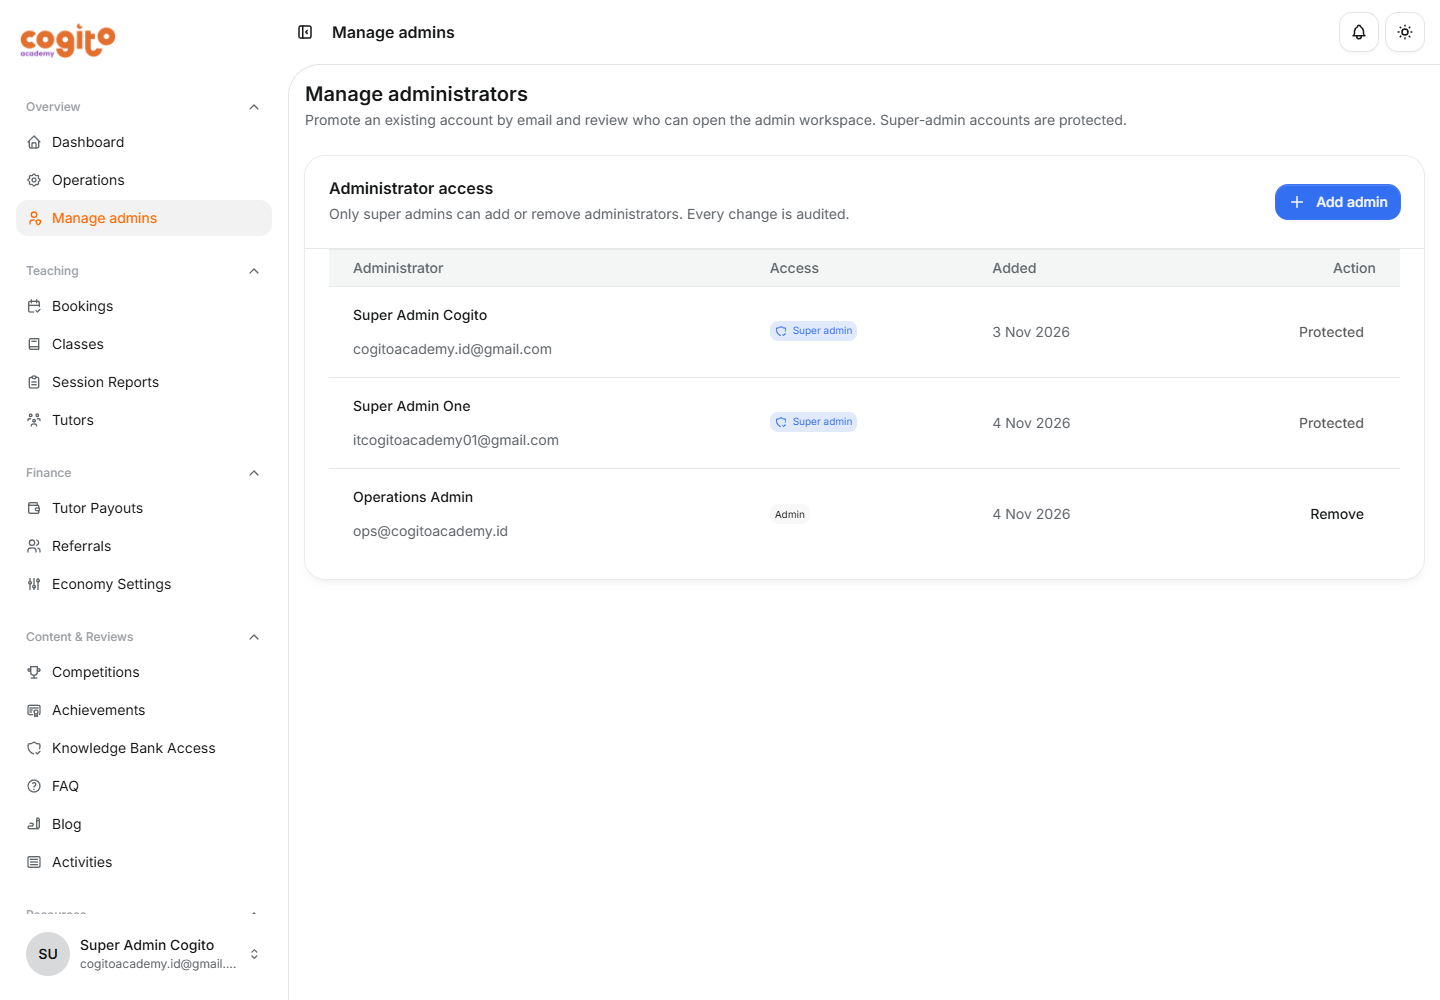
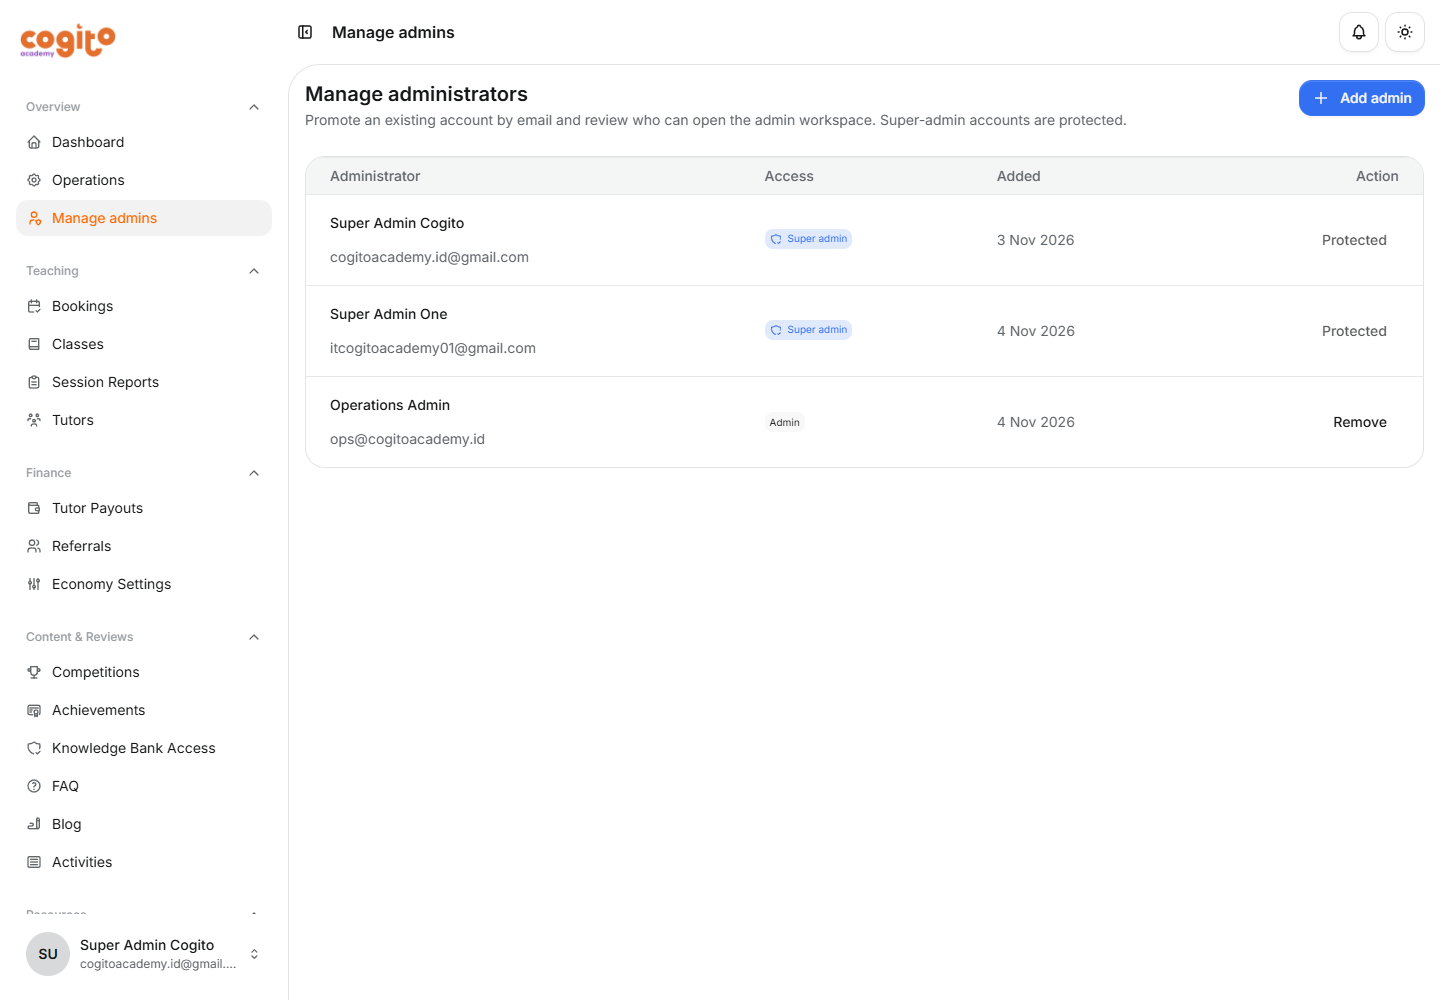
fix(admin): simplify roster layout and table framing
Drop the duplicate card header, move Add admin into the page heading, and let the roster table sit in a single bordered section like other admin pages.

diff --git a/apps/web/src/components/admin/admin-admins-page.tsx b/apps/web/src/components/admin/admin-admins-page.tsx
@@ -7,14 +7,6 @@ import { IconPlus, IconShieldCheck, IconUserShield } from "@tabler/icons-react";
 import { Badge } from "@cogito-app/ui/components/selia/badge";
 import { Button } from "@cogito-app/ui/components/selia/button";
 import {
-  Card,
-  CardBody,
-  CardDescription,
-  CardHeader,
-  CardHeaderAction,
-  CardTitle,
-} from "@cogito-app/ui/components/selia/card";
-import {
   Dialog,
   DialogBody,
   DialogDescription,
@@ -129,143 +121,129 @@ export function AdminAdminsPage() {
 
   return (
     <Stack direction="column" spacing="lg">
-      <div>
-        <Heading level={1} size="md">
-          Manage administrators
-        </Heading>
-        <Text className="max-w-full text-muted">
-          Promote an existing account by email and review who can open the admin
-          workspace. Super-admin accounts are protected.
-        </Text>
+      <div className="flex flex-wrap items-start justify-between gap-3">
+        <div className="min-w-0">
+          <Heading level={1} size="md">
+            Manage administrators
+          </Heading>
+          <Text className="max-w-full text-muted">
+            Promote an existing account by email and review who can open the
+            admin workspace. Super-admin accounts are protected.
+          </Text>
+        </div>
+        <Button
+          size="sm"
+          className="shrink-0"
+          onClick={() => {
+            setAddOpen(true);
+            setFormError(null);
+          }}
+        >
+          <IconPlus /> Add admin
+        </Button>
       </div>
 
-      <Card>
-        <CardHeader>
-          <CardTitle>Administrator access</CardTitle>
-          <CardDescription>
-            Only super admins can add or remove administrators. Every change is
-            audited.
-          </CardDescription>
-          <CardHeaderAction>
+      {adminsQuery.isPending ? (
+        <Loader />
+      ) : adminsQuery.isError ? (
+        <EmptyState
+          icon={<IconUserShield />}
+          tone="danger"
+          title="Administrators could not be loaded"
+          description={getUserFacingError(adminsQuery.error)}
+          action={
             <Button
-              size="sm"
-              onClick={() => {
-                setAddOpen(true);
-                setFormError(null);
-              }}
+              variant="outline"
+              onClick={() => void adminsQuery.refetch()}
             >
-              <IconPlus /> Add admin
+              Try again
             </Button>
-          </CardHeaderAction>
-        </CardHeader>
-        <CardBody className="p-6">
-          {adminsQuery.isPending ? (
-            <div className="p-2">
-              <Loader />
-            </div>
-          ) : adminsQuery.isError ? (
-            <EmptyState
-              icon={<IconUserShield />}
-              tone="danger"
-              title="Administrators could not be loaded"
-              description={getUserFacingError(adminsQuery.error)}
-              action={
-                <Button
-                  variant="outline"
-                  onClick={() => void adminsQuery.refetch()}
-                >
-                  Try again
-                </Button>
-              }
-              className="p-10"
-            />
-          ) : admins.length === 0 ? (
-            <EmptyState
-              icon={<IconUserShield />}
-              title="No administrators yet"
-              description="Add an existing account by email to grant admin access."
-              className="p-10"
-            />
-          ) : (
-            <TableContainer className="mx-0! w-full!">
-              <Table>
-                <TableHeader>
-                  <TableRow>
-                    <TableHead>Administrator</TableHead>
-                    <TableHead className="hidden sm:table-cell">
-                      Access
-                    </TableHead>
-                    <TableHead className="hidden sm:table-cell">
-                      Added
-                    </TableHead>
-                    <TableHead className="hidden text-right sm:table-cell">
-                      Action
-                    </TableHead>
-                  </TableRow>
-                </TableHeader>
-                <TableBody>
-                  {admins.map((admin) => (
-                    <TableRow key={admin.id}>
-                      <TableCell>
-                        <Stack direction="column" spacing="sm">
-                          <Text className="font-medium">{admin.name}</Text>
-                          <Text className="text-muted">{admin.email}</Text>
-                          <span className="sm:hidden">
-                            {admin.isSuperAdmin ? (
-                              <Badge variant="primary" size="sm">
-                                <IconShieldCheck /> Super admin
-                              </Badge>
-                            ) : (
-                              <Badge variant="secondary" size="sm">
-                                Admin
-                              </Badge>
-                            )}
-                          </span>
-                          <Button
-                            variant="plain"
-                            size="sm"
-                            className="w-fit sm:hidden"
-                            disabled={admin.isSuperAdmin}
-                            onClick={() => setRemoveTarget(admin)}
-                          >
-                            {admin.isSuperAdmin ? "Protected" : "Remove"}
-                          </Button>
-                        </Stack>
-                      </TableCell>
-                      <TableCell className="hidden sm:table-cell">
-                        {admin.isSuperAdmin ? (
-                          <Badge variant="primary" size="sm">
-                            <IconShieldCheck /> Super admin
-                          </Badge>
-                        ) : (
-                          <Badge variant="secondary" size="sm">
-                            Admin
-                          </Badge>
-                        )}
-                      </TableCell>
-                      <TableCell className="hidden sm:table-cell">
-                        <Text className="text-muted">
-                          {formatJoined(admin.createdAt)}
-                        </Text>
-                      </TableCell>
-                      <TableCell className="hidden text-right sm:table-cell">
+          }
+          className="rounded-xl border border-border p-10"
+        />
+      ) : admins.length === 0 ? (
+        <EmptyState
+          icon={<IconUserShield />}
+          title="No administrators yet"
+          description="Add an existing account by email to grant admin access."
+          className="rounded-xl border border-border p-10"
+        />
+      ) : (
+        <div className="overflow-hidden rounded-xl border border-border">
+          <TableContainer>
+            <Table>
+              <TableHeader>
+                <TableRow>
+                  <TableHead>Administrator</TableHead>
+                  <TableHead className="hidden sm:table-cell">Access</TableHead>
+                  <TableHead className="hidden sm:table-cell">Added</TableHead>
+                  <TableHead className="hidden text-right sm:table-cell">
+                    Action
+                  </TableHead>
+                </TableRow>
+              </TableHeader>
+              <TableBody>
+                {admins.map((admin) => (
+                  <TableRow key={admin.id}>
+                    <TableCell>
+                      <Stack direction="column" spacing="sm">
+                        <Text className="font-medium">{admin.name}</Text>
+                        <Text className="text-muted">{admin.email}</Text>
+                        <span className="sm:hidden">
+                          {admin.isSuperAdmin ? (
+                            <Badge variant="primary" size="sm">
+                              <IconShieldCheck /> Super admin
+                            </Badge>
+                          ) : (
+                            <Badge variant="secondary" size="sm">
+                              Admin
+                            </Badge>
+                          )}
+                        </span>
                         <Button
                           variant="plain"
                           size="sm"
+                          className="w-fit sm:hidden"
                           disabled={admin.isSuperAdmin}
                           onClick={() => setRemoveTarget(admin)}
                         >
                           {admin.isSuperAdmin ? "Protected" : "Remove"}
                         </Button>
-                      </TableCell>
-                    </TableRow>
-                  ))}
-                </TableBody>
-              </Table>
-            </TableContainer>
-          )}
-        </CardBody>
-      </Card>
+                      </Stack>
+                    </TableCell>
+                    <TableCell className="hidden sm:table-cell">
+                      {admin.isSuperAdmin ? (
+                        <Badge variant="primary" size="sm">
+                          <IconShieldCheck /> Super admin
+                        </Badge>
+                      ) : (
+                        <Badge variant="secondary" size="sm">
+                          Admin
+                        </Badge>
+                      )}
+                    </TableCell>
+                    <TableCell className="hidden sm:table-cell">
+                      <Text className="text-muted">
+                        {formatJoined(admin.createdAt)}
+                      </Text>
+                    </TableCell>
+                    <TableCell className="hidden text-right sm:table-cell">
+                      <Button
+                        variant="plain"
+                        size="sm"
+                        disabled={admin.isSuperAdmin}
+                        onClick={() => setRemoveTarget(admin)}
+                      >
+                        {admin.isSuperAdmin ? "Protected" : "Remove"}
+                      </Button>
+                    </TableCell>
+                  </TableRow>
+                ))}
+              </TableBody>
+            </Table>
+          </TableContainer>
+        </div>
+      )}
 
       <Dialog
         open={addOpen}
